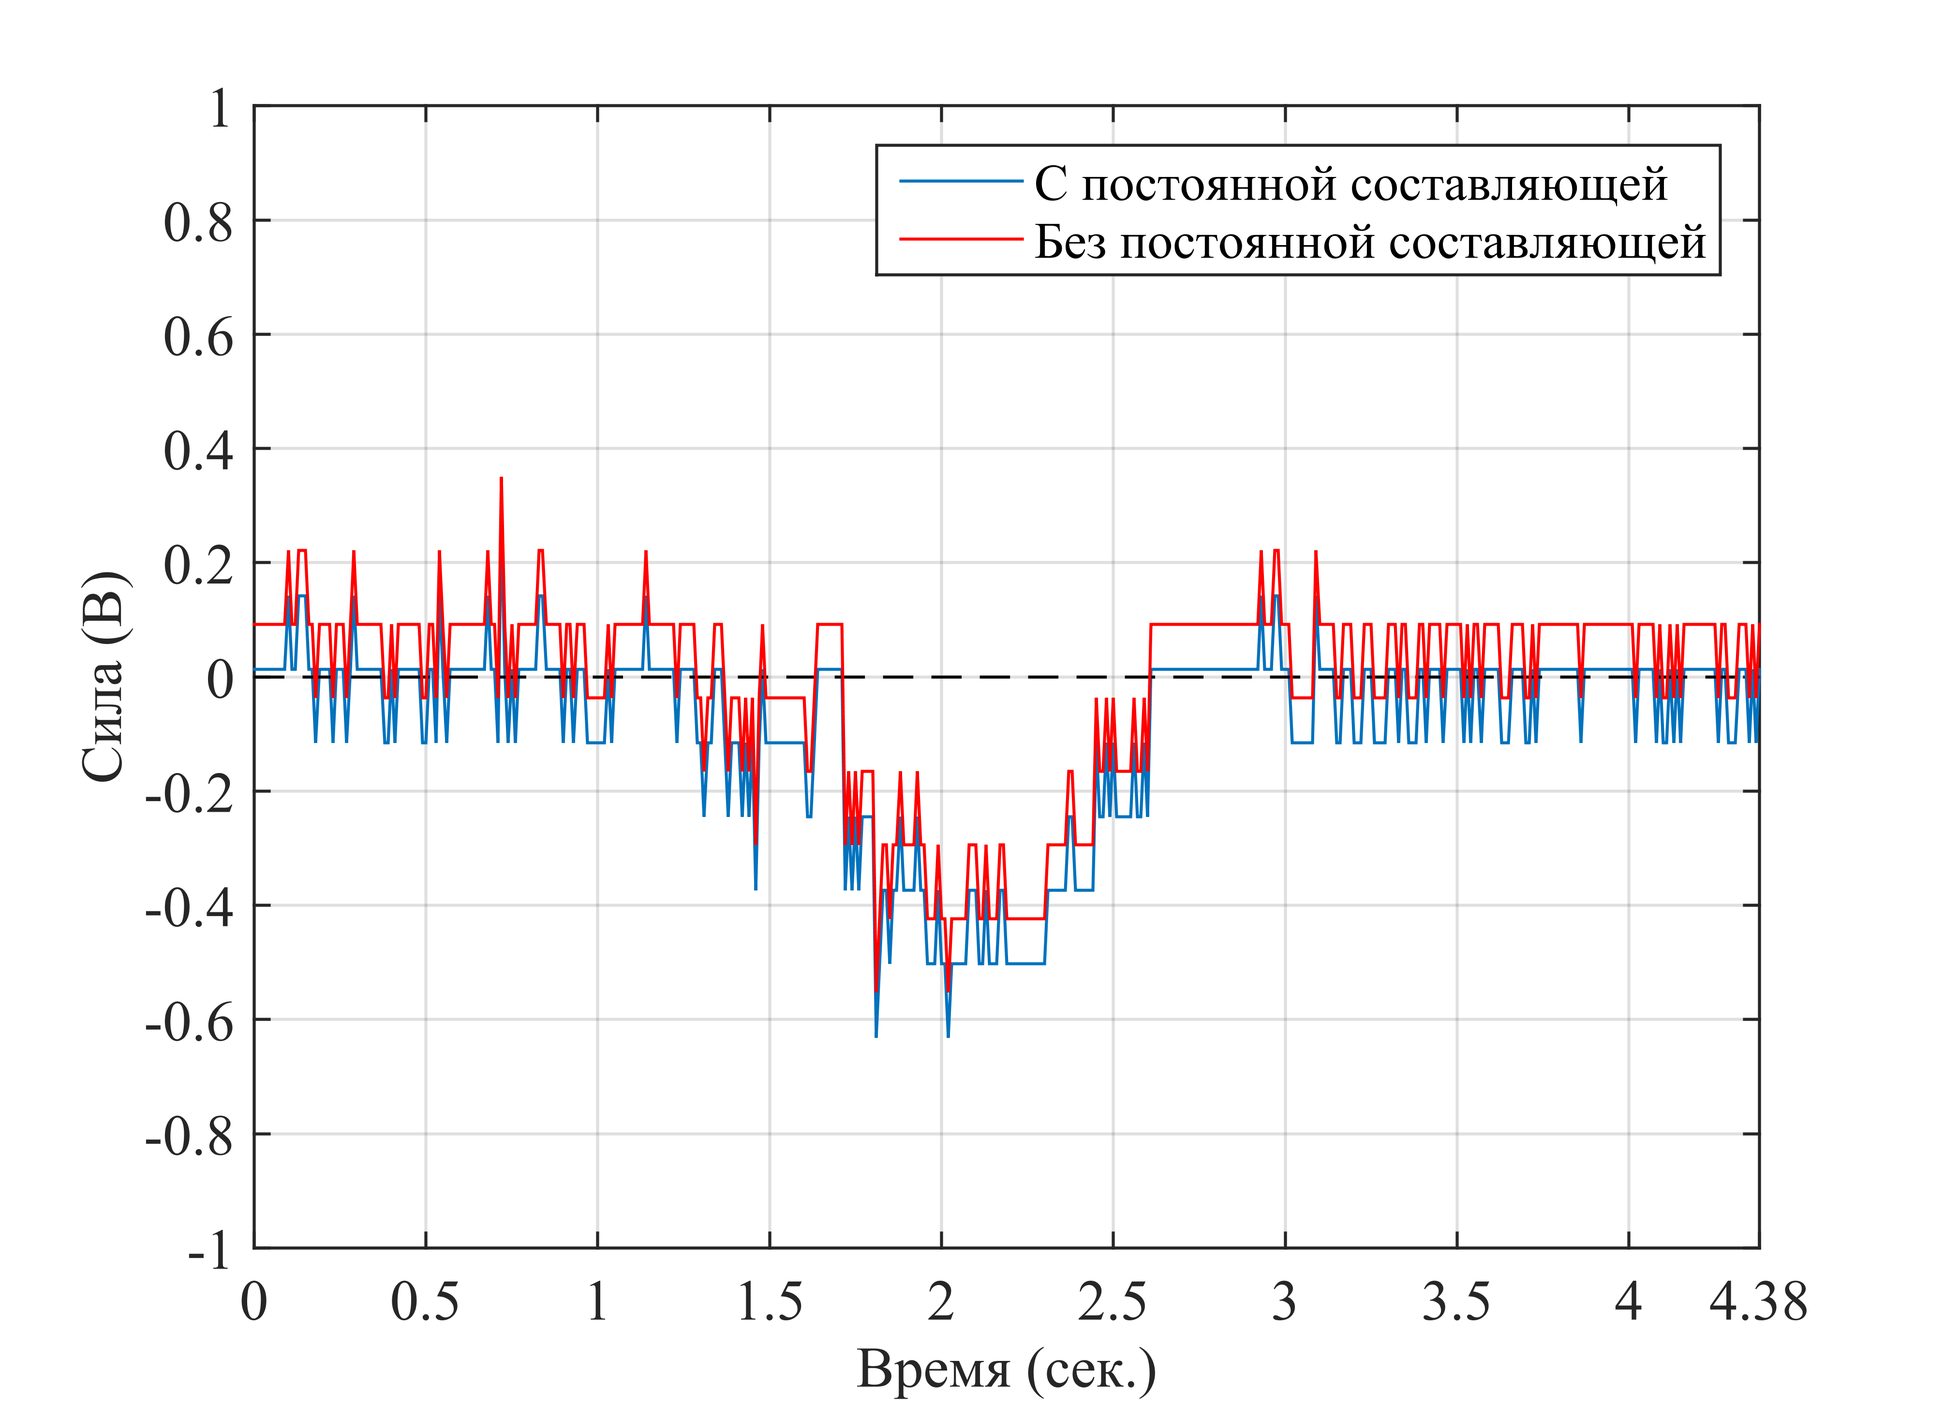
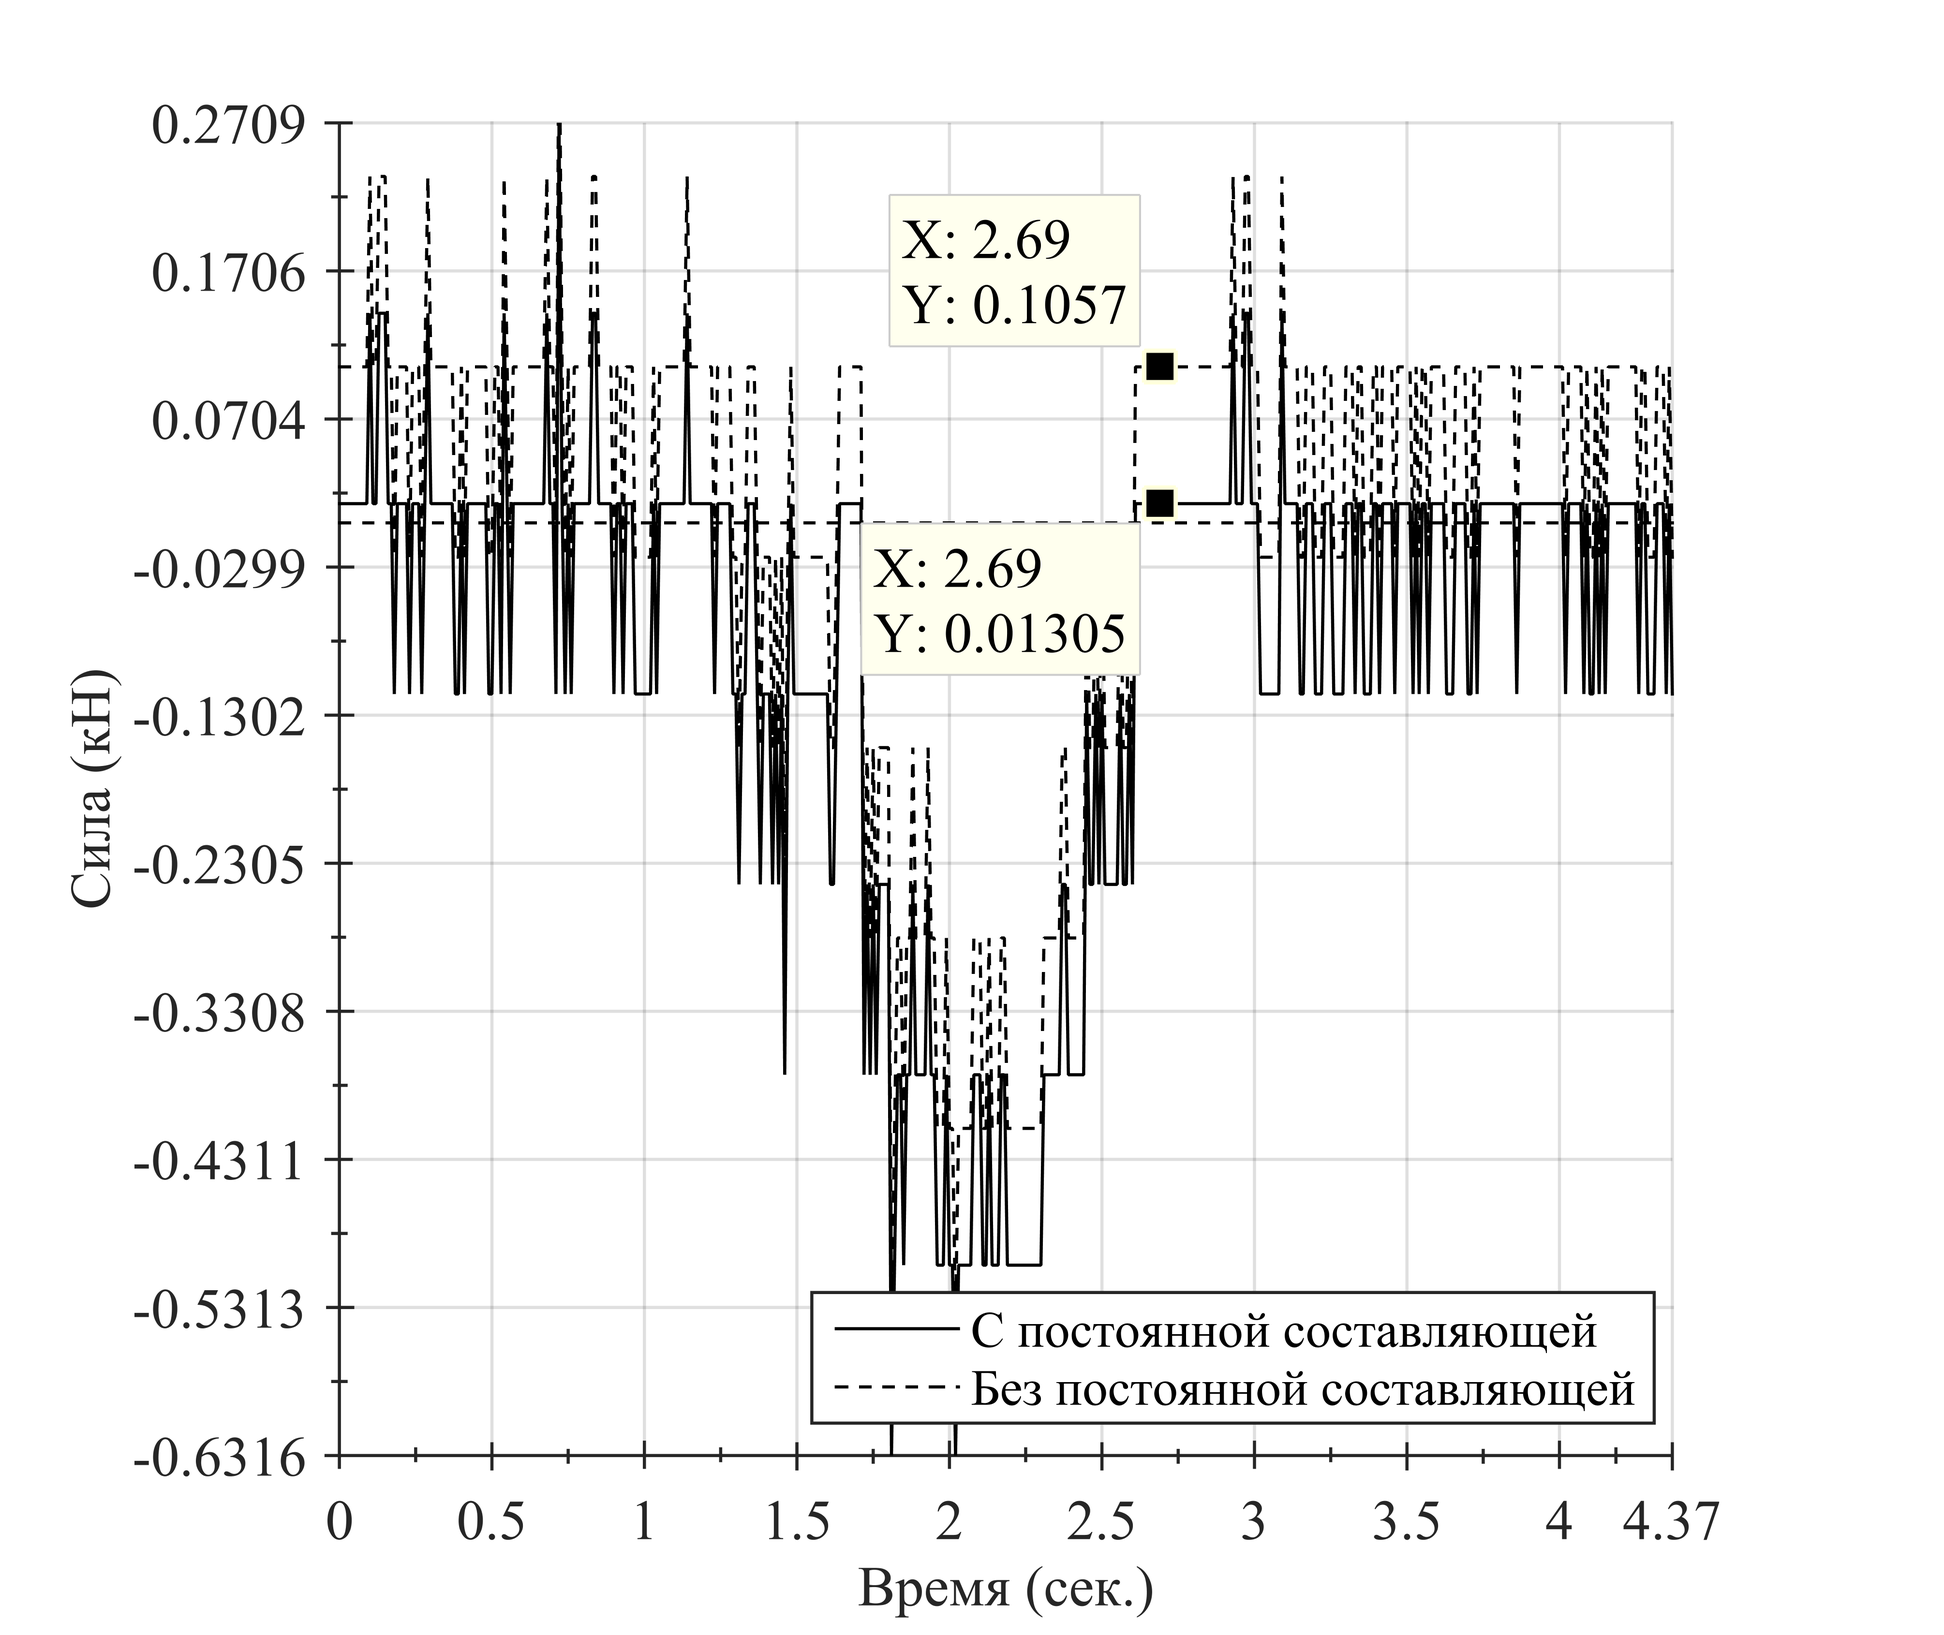
Глава 3
Фурье расписал полностью

diff --git a/Dissertation/part3.tex b/Dissertation/part3.tex
@@ -1,4 +1,4 @@
-\chapter{Анализ данных эксперимента}
+\chapter{Анализ данных эксперимента}\label{chapt3}
 
 После проведения экспериментальных исследований влияния радиуса закругления рабочей кромки и шага резания на составляющие силы, возникающей на дисковом инструменте, при механическом разрушении льда получен набор <<сырых>> данных, который включает в себя:
 \begin{itemize}
@@ -8,16 +8,18 @@
 
 Дальнейшее их использование предполагает обработку и оценку корректности методами математики и статистики, такими как:
 \begin{itemize}
-%	\item оценка дисперсии;
-	\item усреднение значений;
 	\item фильтрация постоянной составляющей;
 	\item отброс грубых ошибок;
+%	\item оценка дисперсии;
+	\item усреднение значений;
+	
+	
 	\item сглаживание.
 \end{itemize}
 
 Далее в это главе процесс обработки и оценки адекватности данных будет приведен последователь.
 
-\section{Фильтрация и сглаживание переходных процессов резания льда}
+\section{Фильтрация и сглаживание переходных процессов резания льда}\label{sect3_1}
 
 Чтобы исключить <<дрейф нуля>> необходимо убрать из сигнала переходного процесса постоянную составляющую. Самый простой способ это сделать, перевести сигнал в частотную область (например быстрым преобразованием Фурье (БПФ)) \cite{BPF,BPFEng}. Воспользуемся следующей формулой для реализации БПФ:
 \begin{equation}\label{eq:FFT}
@@ -25,22 +27,35 @@ X(k)=\sum_{j=1}^{N} x(j)\cdot\omega_{N}^{(j-1)\cdot(k-1)}
 \end{equation}
 где $ N $ "--- количество точек в снятом переходном процессе; $ \omega_{N} = e^{\frac{-2\pi i}{N}} $ "--- корень $ N $-ой степени.
 
-После перехода в частотную область, сигнал представляет собой значение частот всех гармоник образующих исходный сигнал. Можно графически оценить полученную спектрограмму, рисунок \ref{img:Spectrum}. Как известно из главы \ref{chapt2}, частота дискретизации АЦП равна 100~Гц. На графике же мы видем максимальную частоту 50~Гц, это обусловленно линейностью и симметричностью преобразования Фурье. 
+В пакете прикладных программ matlab вычисление БПФ сводится к нескольким строчкам кода. Приведем пример вычисления со сдвигом нулевой частоты в середину спектра:
+\begin{lstlisting}
+	X = fft(x);
+	X = fftshift(X);
+\end{lstlisting}
+
+Исходя из свойств преобразования Фурье, таких как линейность и симметричность, для более наглядно представления спектра сигнала можно без последствий отбросить отрицательную часть, тоесть ровно половину массива \verb|X|. 
+\begin{lstlisting}
+	X = X(end/2-1:end);
+\end{lstlisting}
+
+После перехода в частотную область, сигнал представляет собой набор значение частот всех гармоник образующих исходный сигнал. Можно графически оценить спектр переходного процесса, например для вертикальной составляющей силы, при радиусе закругления $ R=0,5 $ и шаге резания $ t=10 $, рисунок \ref{img:Spectrum}. Как известно из главы \ref{chapt2}, частота дискретизации АЦП равна 100~Гц. На графике же мы видем максимальную частоту 50~Гц, это обусловленно симметричностью преобразования Фурье. 
 \begin{figure}[ht] 
 	\center
 	\includegraphics{Spectrum}
-	\caption{Спектрограмма сигнала переходного процесса разрушения льда} 
+	\caption{Спектр сигнала переходного процесса разрушения льда, для вертикальной составляющей силы. При $ R=0,5\ t=10 $} 
 	\label{img:Spectrum}  
 \end{figure}
 
-Как видно из рисунка \ref{img:Spectrum} на нулевой частоте заметен значительный всплеск амплитуды. Что обуславливает присутствие в сигнале некой постоянной составляющей с амплитудой равной 0,185. 0.0792  Для удаления постоянной составляющей сигнала достаточно просто обнулить нулевую частоту в полученно ряду Фурье и выполнить обратное преобразование с помощью формулы \ref{eq:iFFt}
-
-Обратное преобразование будет иметь вид:
+Как видно из рисунка \ref{img:Spectrum} при нулевой частоте заметен значительный всплеск амплитуды. Что обуславливает присутствие в сигнале некой постоянной составляющей с амплитудой равной 0,0926.  Для ее удаления из сигнала достаточно просто обнулить нулевую частоту в полученно ряду Фурье \verb|X(1)=0;| и выполнить обратное преобразование с помощью формулы:
 \begin{equation}\label{eq:iFFT}
 x(j)=\frac{1}{N}\sum_{k=1}^{N} X(k)\cdot\omega_{N}
 \end{equation}
 
-Приведем пример <<сырого>> сигнала переходного процесса, рисунок \ref{img:SignalRaw} синяя линия. Также на рисунке \ref{img:SignalRaw} изображен сигнал полученный путем отбрасывания нулевой частотной составляющей в ряду Фурье
+Средствами matlab это же действие выполняется путем обратного сдвига и обратного же БПФ:
+\begin{lstlisting}
+X = ifftshift(X);
+x = ifft(X);
+\end{lstlisting}
 \begin{figure}[ht] 
 	\center
 	\includegraphics{SignalRaw}
@@ -48,15 +63,23 @@ x(j)=\frac{1}{N}\sum_{k=1}^{N} X(k)\cdot\omega_{N}
 	\label{img:SignalRaw}  
 \end{figure}
 
+Результат работы данного алгоритма приведен на рисунке \ref{img:SignalRaw}. Как видно из графика, не обработанный сигнал (сплошная линия) имеет смещение относительно обработанного (штриховая линия) ровно на 0,0926 что соответствует амплитуде постоянной составляющей, найденной выше. Все остальные записанные сигналы обработаем подобным образом.
 
 
-\section{Усреднение повторных опытов}
+\section{Усреднение повторных опытов}\label{sect3_2}
+
+
+В задачах контроля и управления технологическими процессами, учета электроэнергии, контроля за работоспособностью и функционированием силовой коммутационной техники и прочих важно знать энергетические свойства переменного сигнала, характеризующие  его способность совершать работу. Таким параметром переменного сигнала является  его среднеквадратичное значение. Не менее широко применяются также термины «действующее значение», «эффективное значение». В дальнейшем мы будем использовать термин «действующее значение».
+\begin{equation}\label{eq:rms}
+F_\text{Д}=\sqrt{\frac{1}{n}\cdot\sum_{i=1}^{n} F_i}
+\end{equation}
+
 
 Из параграфа \ref{sect2_2} известно, что для каждый опыт повторялся 5 раз, для учета неизвестных факторов, а это значит что данные необходимо усреднить.
 
 Точечную оценку величины действующей силы можно вычислить через:
 \begin{equation}\label{eq:x_ocenka}
-\hat{a}=\frac{1}{n}\sum_{i=1}^{n} F_i,
+\hat{F}=\frac{1}{n}\sum_{i=1}^{n} F_i,
 \end{equation}
 где $ n $ "--- число повторных опытов, $ F_i $ "--- измеренное значение в отдельном опыте \cite{Zajigaev}.
 

diff --git a/Dissertation/userpackages.tex b/Dissertation/userpackages.tex
@@ -5,6 +5,7 @@
 % Листинги с исходным кодом программ
 \usepackage{fancyvrb}
 \usepackage{listings}
+\usepackage{matlab-prettifier} % Подсветка синтаксиса matlab
 \lccode`\~=0\relax %Без этого хака из-за особенностей пакета listings перестают работать конструкции с \MakeLowercase и т. п. в (xe|lua)latex
 
 % Русская традиция начертания греческих букв

diff --git a/Dissertation/introduction.tex b/Dissertation/introduction.tex
@@ -33,7 +33,7 @@
 \the\numexpr\getpagerefnumber{chapt3}-\getpagerefnumber{chapt2}\relax~с.
 
 Третья глава
-\the\numexpr\getpagerefnumber{chapt3}-\getpagerefnumber{chapt4}\relax~с.
+\the\numexpr\getpagerefnumber{chapt4}-\getpagerefnumber{chapt3}\relax~с.
 
 Четвертая глава
 \the\numexpr\getpagerefnumber{conclusion}-\getpagerefnumber{chapt4}\relax~с.
